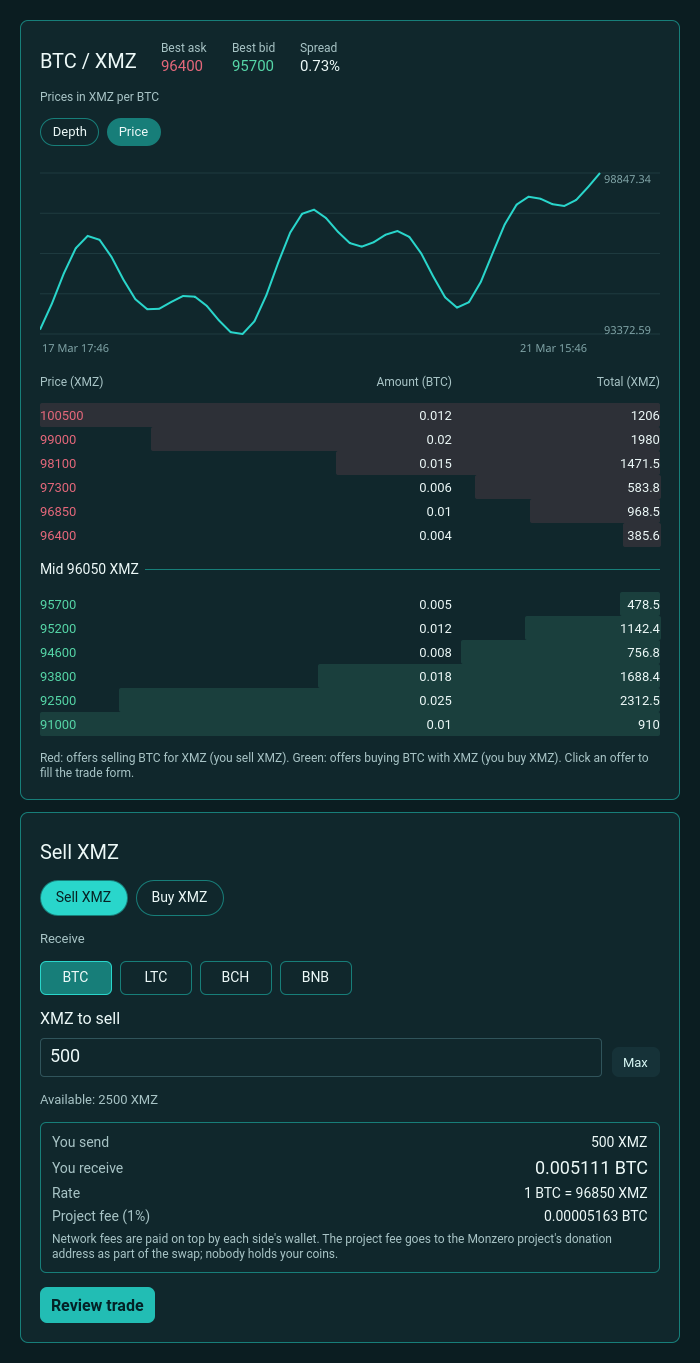
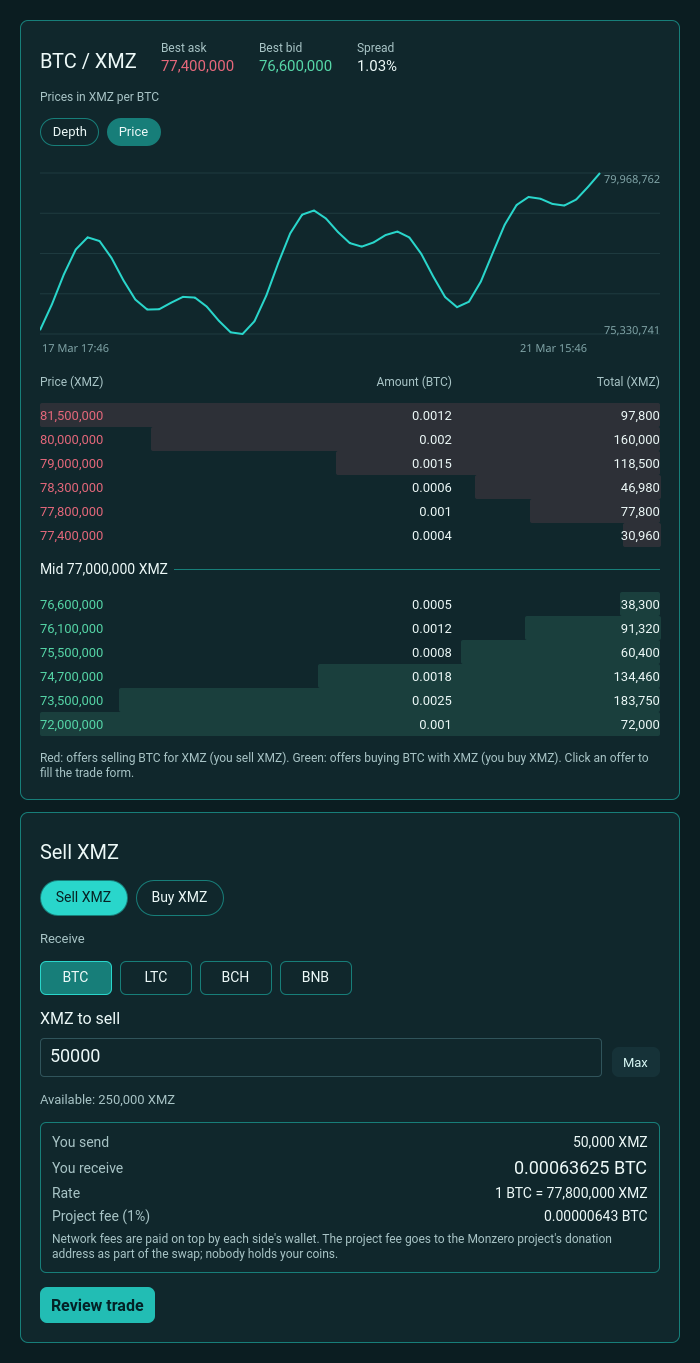
DEX: starting point $0.001 per XMZ in the sample pictures and the test checklist
- Sample order book and trade history (tst_DexMarket) now sit around
  $0.001 per XMZ: about 77,000,000 XMZ per BTC (BTC ~$77,000 on
  2026-10-31). Pictures in docs/dex-trade-ui/ regenerated; the README
  states the levels are samples.
- Large numbers on the trade screen get thousands separators (display
  only; typed amounts are untouched).
- real-funds/CHECKLIST.md: amount table at $0.001 per XMZ with BNB ~$700
  (0.01 BNB = 7,000 XMZ; seller funds 10,500), the formula for the day's
  price, and a note that this own-accounts test must not be published as
  a market price. Example amounts in run-trader.sh and bsc_trader updated.

diff --git a/gui/tests/qml/tst_DexMarket.qml b/gui/tests/qml/tst_DexMarket.qml
@@ -14,19 +14,20 @@ Item {
         return { pair: "BTC/XMZ", side: side, priceAtomic: String(Math.round(xmzPerCoin * 1e11)),
                  amountAtomic: String(Math.round(coinAmount * 1e8)) }
     }
-    // SAMPLE order book for screenshots and tests: not market data.
+    // SAMPLE order book for screenshots and tests: not market data. Levels around $0.001 per XMZ
+    // with BTC at about $77,000 (77,000,000 XMZ per BTC), as chosen on 2026-10-31.
     property var sampleOffers: [
-        offer("SELL", 96400, 0.004), offer("SELL", 96850, 0.010), offer("SELL", 97300, 0.006),
-        offer("SELL", 98100, 0.015), offer("SELL", 99000, 0.020), offer("SELL", 100500, 0.012),
-        offer("BUY", 95700, 0.005), offer("BUY", 95200, 0.012), offer("BUY", 94600, 0.008),
-        offer("BUY", 93800, 0.018), offer("BUY", 92500, 0.025), offer("BUY", 91000, 0.010),
+        offer("SELL", 77400000, 0.0004), offer("SELL", 77800000, 0.0010), offer("SELL", 78300000, 0.0006),
+        offer("SELL", 79000000, 0.0015), offer("SELL", 80000000, 0.0020), offer("SELL", 81500000, 0.0012),
+        offer("BUY", 76600000, 0.0005), offer("BUY", 76100000, 0.0012), offer("BUY", 75500000, 0.0008),
+        offer("BUY", 74700000, 0.0018), offer("BUY", 73500000, 0.0025), offer("BUY", 72000000, 0.0010),
         { pair: "LTC/XMZ", side: "SELL", priceAtomic: "90000000000000", amountAtomic: "100000000" }
     ]
     // SAMPLE completed trades (a deterministic wander), one every 2 hours
     property var sampleTrades: {
-        var out = [], p = 93000, t = 1900000000
+        var out = [], p = 75000000, t = 1900000000
         for (var i = 0; i < 48; ++i) {
-            p += Math.sin(i * 0.7) * 600 + Math.cos(i * 0.31) * 450 + 70
+            p += Math.sin(i * 0.7) * 500000 + Math.cos(i * 0.31) * 380000 + 60000
             out.push({ time: t + i * 7200, priceAtomic: String(Math.round(p * 1e11)) })
         }
         return out
@@ -42,7 +43,7 @@ Item {
             x: 20; y: 20; width: 660; spacing: 12
             M.DexTradeProgress { id: progress; width: parent.width; visible: false; coin: "BNB" }
             M.DexMarketPanel { id: market; width: parent.width; coin: card.coin; offers: root.sampleOffers }
-            M.DexTradeCard { id: card; width: parent.width; offers: root.sampleOffers; xmzBalance: 2500 }
+            M.DexTradeCard { id: card; width: parent.width; offers: root.sampleOffers; xmzBalance: 250000 }
         }
     }
 
@@ -62,10 +63,10 @@ Item {
         function test_bookSortsAndTotals() {
             var b = market.book
             compare(b.asks.length, 6); compare(b.bids.length, 6)              // LTC offer left out
-            compare(b.asks[0].price, 96400); compare(b.bids[0].price, 95700)
-            fuzzyCompare(b.asks[5].total, 0.067, 1e-9)
-            fuzzyCompare(b.bids[0].xmz, 95700 * 0.005, 1e-6)
-            compare(child(market, "bestAsk").text, "96400.00".replace(/0+$/, "").replace(/\.$/, ""))
+            compare(b.asks[0].price, 77400000); compare(b.bids[0].price, 76600000)
+            fuzzyCompare(b.asks[5].total, 0.0067, 1e-9)
+            fuzzyCompare(b.bids[0].xmz, 76600000 * 0.0005, 1e-6)
+            compare(child(market, "bestAsk").text, "77,400,000")
             verify(child(market, "spread").text.indexOf("%") > 0)
             verify(!child(market, "chartEmpty").visible)
         }
@@ -87,21 +88,21 @@ Item {
 
         // Screenshots of the trade area with the SAMPLE book (file names say so)
         function test_zz_screenshots() {
-            card.amountText = "500"; wait(200)
+            card.amountText = "50000"; wait(200)
             save(shot, "sample-1-depth-chart-order-book-and-sell-quote.png")
             market.chartMode = "price"; market.trades = root.sampleTrades; wait(200)
             save(shot, "sample-2-price-chart.png")
-            market.chartMode = "depth"; card.direction = "buy"; card.amountText = "450"; wait(100)
+            market.chartMode = "depth"; card.direction = "buy"; card.amountText = "40000"; wait(100)
             child(card, "reviewButton").clicked(); card.startBlockedReason = "Testnet preview: taking an offer from the app comes next."; wait(200)
             save(shot, "sample-3-buy-review.png")
             card.reviewing = false; card.amountText = ""
             progress.trade = { configured: true, state: "ok", canApprove: true, commitment: "0xabc",
-                snapshot: { role: "owner", stage: "Start", offer: { value: "20000000000000000", xmzAmount: "2000000000000" },
+                snapshot: { role: "owner", stage: "Start", offer: { value: "10000000000000000", xmzAmount: "700000000000000" },
                             deadlines: { timeout1: "1900000000", timeout2: "1900003600" } } }
             progress.visible = true; wait(200)
             save(shot, "sample-4-active-trade-approval.png")
             progress.trade = { configured: true, state: "ok", snapshot: { role: "claimer", stage: "XmzLocked",
-                offer: { value: "20000000000000000", xmzAmount: "2000000000000" }, deadlines: { timeout1: "1900000000", timeout2: "1900003600" } } }
+                offer: { value: "10000000000000000", xmzAmount: "700000000000000" }, deadlines: { timeout1: "1900000000", timeout2: "1900003600" } } }
             wait(200)
             save(shot, "sample-5-active-trade-in-progress.png")
         }

diff --git a/gui/components/DexTradeCard.qml b/gui/components/DexTradeCard.qml
@@ -58,7 +58,7 @@ Rectangle {
             if (!best || (dir === "sell" ? price < best.price : price > best.price)) best = { offer: o, price: price }
         }
         if (!count) return { ok: false, reason: qsTr("No offers for %1 right now.").arg(coinCode), noOffers: true }
-        if (!best) return { ok: false, reason: qsTr("No single offer is that large. The largest covers %1 XMZ.").arg(trim(largest, 4)) }
+        if (!best) return { ok: false, reason: qsTr("No single offer is that large. The largest covers %1 XMZ.").arg(group(trim(largest, 4))) }
         var gross = xmz / best.price
         var projectFee = gross * fee / 100
         return {
@@ -74,7 +74,15 @@ Rectangle {
         var s = Number(n).toFixed(places)
         return s.indexOf(".") < 0 ? s : s.replace(/0+$/, "").replace(/\.$/, "")
     }
-    function show(n, code) { return trim(n, code === "XMZ" ? 6 : 8) + " " + code }
+    // Thousands separators for display only (never for text the user edits)
+    function group(text) {
+        var parts = String(text).split(".")
+        var whole = parts[0], out = ""
+        while (whole.length > 3) { out = "," + whole.slice(-3) + out; whole = whole.slice(0, -3) }
+        parts[0] = whole + out
+        return parts.join(".")
+    }
+    function show(n, code) { return group(trim(n, code === "XMZ" ? 6 : 8)) + " " + code }
 
     ColumnLayout {
         id: column
@@ -189,7 +197,7 @@ Rectangle {
                     model: card.quote.ok ? [
                         { k: qsTr("You send"), v: card.show(card.quote.send, card.direction === "sell" ? "XMZ" : card.coin), strong: false },
                         { k: qsTr("You receive"), v: card.show(card.quote.receive, card.direction === "sell" ? card.coin : "XMZ"), strong: true },
-                        { k: qsTr("Rate"), v: qsTr("1 %1 = %2 XMZ").arg(card.coin).arg(card.trim(card.quote.price, 4)), strong: false },
+                        { k: qsTr("Rate"), v: qsTr("1 %1 = %2 XMZ").arg(card.coin).arg(card.group(card.trim(card.quote.price, 4))), strong: false },
                         { k: qsTr("Project fee (%1%)").arg(card.feePercent), v: card.show(card.quote.fee, card.coin), strong: false }
                     ] : []
                     delegate: RowLayout {

diff --git a/gui/components/DexMarketPanel.qml b/gui/components/DexMarketPanel.qml
@@ -57,10 +57,18 @@ Rectangle {
         return { asks: asks, bids: bids }
     }
 
+    // Thousands separators for display only (never for text the user edits)
+    function group(text) {
+        var parts = String(text).split(".")
+        var whole = parts[0], out = ""
+        while (whole.length > 3) { out = "," + whole.slice(-3) + out; whole = whole.slice(0, -3) }
+        parts[0] = whole + out
+        return parts.join(".")
+    }
     function fmt(n, places) {
         if (!(n > 0)) return "—"
         var s = Number(n).toFixed(places)
-        return s.indexOf(".") < 0 ? s : s.replace(/0+$/, "").replace(/\.$/, "")
+        return group(s.indexOf(".") < 0 ? s : s.replace(/0+$/, "").replace(/\.$/, ""))
     }
     function priceText(p) { return fmt(p, p >= 100 ? 2 : 6) }
 

diff --git a/gui/components/DexTradeProgress.qml b/gui/components/DexTradeProgress.qml
@@ -64,7 +64,12 @@ Rectangle {
         var n = Number(text) / Math.pow(10, decimals)
         if (!isFinite(n)) return "?"
         var s = n.toFixed(Math.min(decimals, 8))
-        return s.indexOf(".") < 0 ? s : s.replace(/0+$/, "").replace(/\.$/, "")
+        s = s.indexOf(".") < 0 ? s : s.replace(/0+$/, "").replace(/\.$/, "")
+        var parts = s.split(".")
+        var whole = parts[0], out = ""
+        while (whole.length > 3) { out = "," + whole.slice(-3) + out; whole = whole.slice(0, -3) }
+        parts[0] = whole + out
+        return parts.join(".")
     }
     function when(seconds) {
         var t = Number(seconds)

diff --git a/gui/tests/qml/tst_DexTrade.qml b/gui/tests/qml/tst_DexTrade.qml
@@ -57,7 +57,7 @@ Item {
             verify(card.quoteFor("sell", "BTC", 0, book, 8, 1).empty)
             verify(card.quoteFor("sell", "BCH", 1, book, 8, 1).noOffers)
             var big = card.quoteFor("sell", "BTC", 5000, book, 8, 1)
-            verify(!big.ok); verify(big.reason.indexOf("2000") >= 0)   // largest: 0.01 BTC x 200k
+            verify(!big.ok); verify(big.reason.indexOf("2,000") >= 0)   // largest: 0.01 BTC x 200k, shown with separators
             verify(!card.quoteFor("sell", "BTC", 1, book, undefined, 1).ok)
         }
         function test_cardShowsQuoteAndBlocksUnavailableStart() {

diff --git a/gui/dex-contracts/engine/examples/bsc_trader.rs b/gui/dex-contracts/engine/examples/bsc_trader.rs
@@ -16,7 +16,7 @@
 //!
 //! NETWORK=mainnet moves real funds. It needs deployments/bsc-mainnet.json (scripts/deploy-mainnet.js),
 //! an ACCOUNTS_FILE holding a dedicated test phrase (never a main wallet's), XMZ_NODE (a mainnet
-//! node), and BNB_AMOUNT / XMZ_AMOUNT in whole coins (e.g. 0.01 and 5); BNB_AMOUNT above
+//! node), and BNB_AMOUNT / XMZ_AMOUNT in whole coins (e.g. 0.01 and 7000); BNB_AMOUNT above
 //! MAINNET_MAX_BNB is refused. The claimer waits for XMZ_AMOUNT plus a fee margin in its wallet.
 
 use alloy::primitives::{keccak256, Address, B256, U256};

diff --git a/gui/dex-contracts/real-funds/CHECKLIST.md b/gui/dex-contracts/real-funds/CHECKLIST.md
@@ -4,8 +4,24 @@ The owner's own test of the swap with real coins, between two accounts of one de
 phrase: the **buyer** (account 0) pays BNB and receives XMZ, the **seller** (account 1) sells XMZ
 and receives BNB. Everything runs on one PC, in two terminals.
 
-Keep it small: the runner refuses more than **0.1 BNB** per trade. Never use a main wallet's
-recovery phrase; the test phrase is created fresh in step 1.
+Keep it small: the runner refuses more than **0.1 BNB** per trade.
+
+**Amounts.** The starting point chosen on 2026-10-31 is **$0.001 per XMZ**. With BNB at about
+$700 that is about **700,000 XMZ per BNB**, so:
+
+| BNB_AMOUNT | ≈ USD | XMZ_AMOUNT | Seller needs (amount + half) |
+| --- | --- | --- | --- |
+| 0.002 | $1.40 | 1400 | 2,100 XMZ |
+| 0.01 | $7 | 7000 | 10,500 XMZ |
+| 0.05 | $35 | 35000 | 52,500 XMZ |
+
+Check the BNB price on the day and adjust XMZ_AMOUNT = BNB_AMOUNT × (BNB price in $) ÷ 0.001.
+
+**This is a test between your own two accounts, not a market trade.** Don't publish its price or
+add it to any public price history: a trade between one person's own wallets would be a
+self-made price.
+
+Never use a main wallet's recovery phrase; the test phrase is created fresh in step 1.
 
 Commands run from `gui/dex-contracts`. Needed: Node.js (`npm ci` once), the synced mainnet node
 (`monzerod`, RPC 127.0.0.1:6175), `monzero-wallet-rpc` v1.0.0.
@@ -40,16 +56,16 @@ From MetaMask, on BNB Smart Chain:
 
 ## 4. Run the trade
 
-Pick the amounts, e.g. 0.01 BNB for 5 XMZ. Terminal 1, the buyer:
+Pick the amounts from the table above, e.g. 0.01 BNB for 7000 XMZ. Terminal 1, the buyer:
 ```
-BNB_AMOUNT=0.01 XMZ_AMOUNT=5 real-funds/run-trader.sh buyer ~/dex-real/buyer-1
+BNB_AMOUNT=0.01 XMZ_AMOUNT=7000 real-funds/run-trader.sh buyer ~/dex-real/buyer-1
 ```
 Terminal 2, the seller, once the buyer prints "answering key requests":
 ```
-BNB_AMOUNT=0.01 XMZ_AMOUNT=5 real-funds/run-trader.sh seller ~/dex-real/seller-1 ~/dex-real/buyer-1
+BNB_AMOUNT=0.01 XMZ_AMOUNT=7000 real-funds/run-trader.sh seller ~/dex-real/seller-1 ~/dex-real/buyer-1
 ```
 The seller prints its XMZ wallet address (also in `~/dex-real/seller-1/xmz-address.txt`) and waits.
-**Send it the XMZ amount plus half again** (7.5 XMZ for a 5 XMZ trade) from your XMZ wallet, then
+**Send it the XMZ amount plus half again** (10,500 XMZ for a 7000 XMZ trade) from your XMZ wallet, then
 wait for it to unlock (10 blocks).
 
 Then both run on their own. Expected states:
@@ -61,7 +77,7 @@ The buyer's offer is valid for 2 hours; the whole trade takes about 30–60 minu
 
 **If anything stops** (crash, reboot, Ctrl-C): start that side again with `resume`:
 ```
-BNB_AMOUNT=0.01 XMZ_AMOUNT=5 real-funds/run-trader.sh buyer ~/dex-real/buyer-1 resume
+BNB_AMOUNT=0.01 XMZ_AMOUNT=7000 real-funds/run-trader.sh buyer ~/dex-real/buyer-1 resume
 ```
 Nothing is lost: the trade is saved before anything is locked, and refunds are automatic.
 

diff --git a/gui/docs/dex-trade-ui/README.md b/gui/docs/dex-trade-ui/README.md
@@ -10,6 +10,8 @@
 | `sample-5-active-trade-in-progress.png` | An active trade part-way through (seller's view) |
 
 **`sample-*` pictures use a made-up order book and trade history** (in `tests/qml/tst_DexMarket.qml`)
-so the chart and book have something to show; they are not market prices. They are rendered by
+so the chart and book have something to show; they are not market prices. The sample levels sit
+around the starting point chosen on 2026-10-31, **$0.001 per XMZ**: with BTC at about $77,000 that
+is about 77,000,000 XMZ per BTC (and with BNB at about $700, 700,000 XMZ per BNB). They are rendered by
 the app's own components. Regenerate them with the QML tests (`--test-qml`), which save them to
 `build/dex-trade-ui/`.
